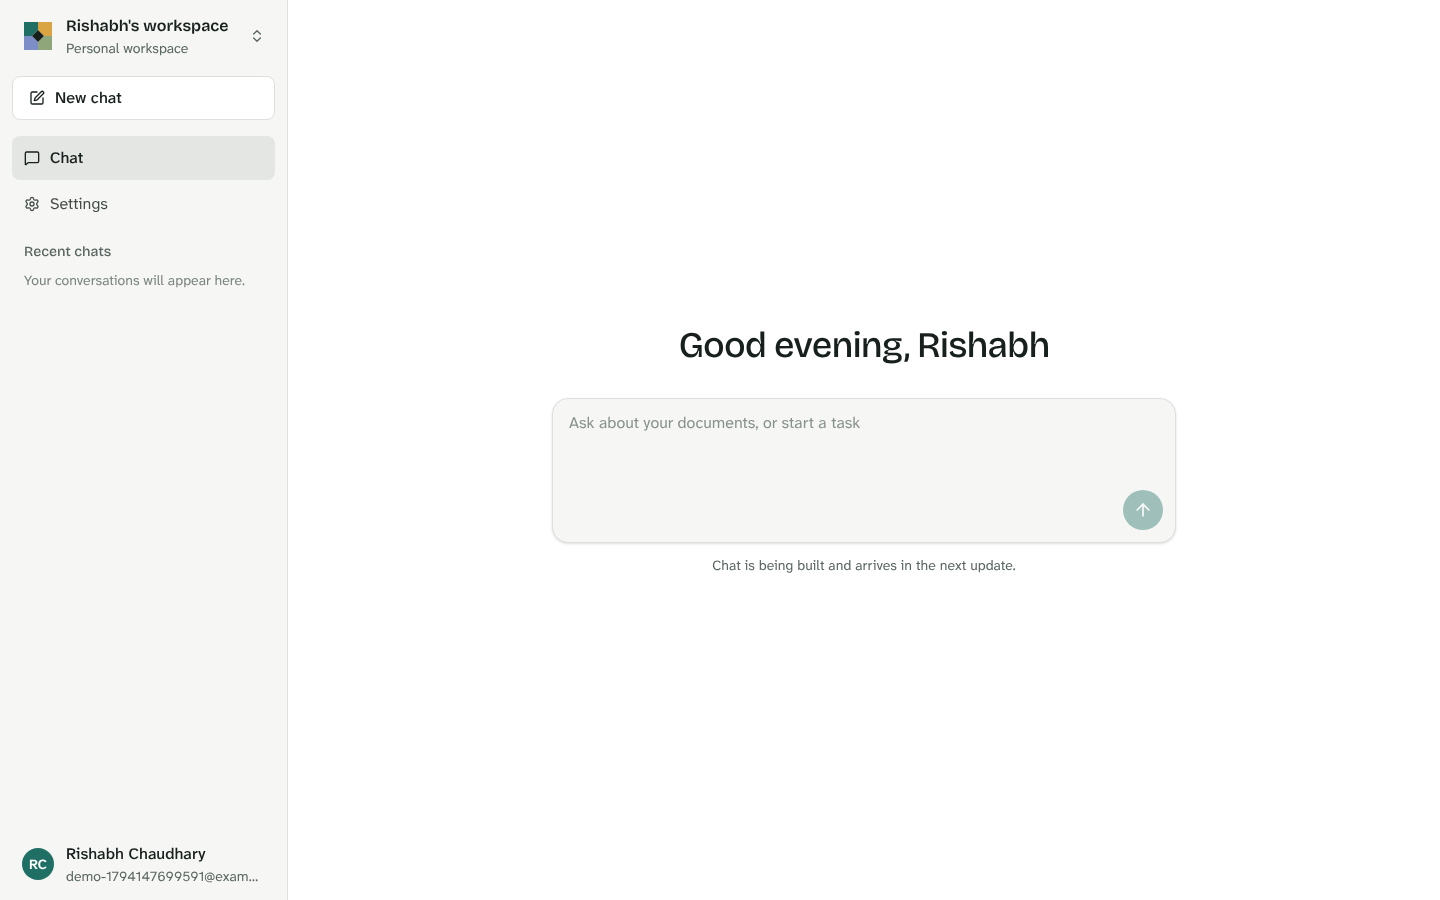
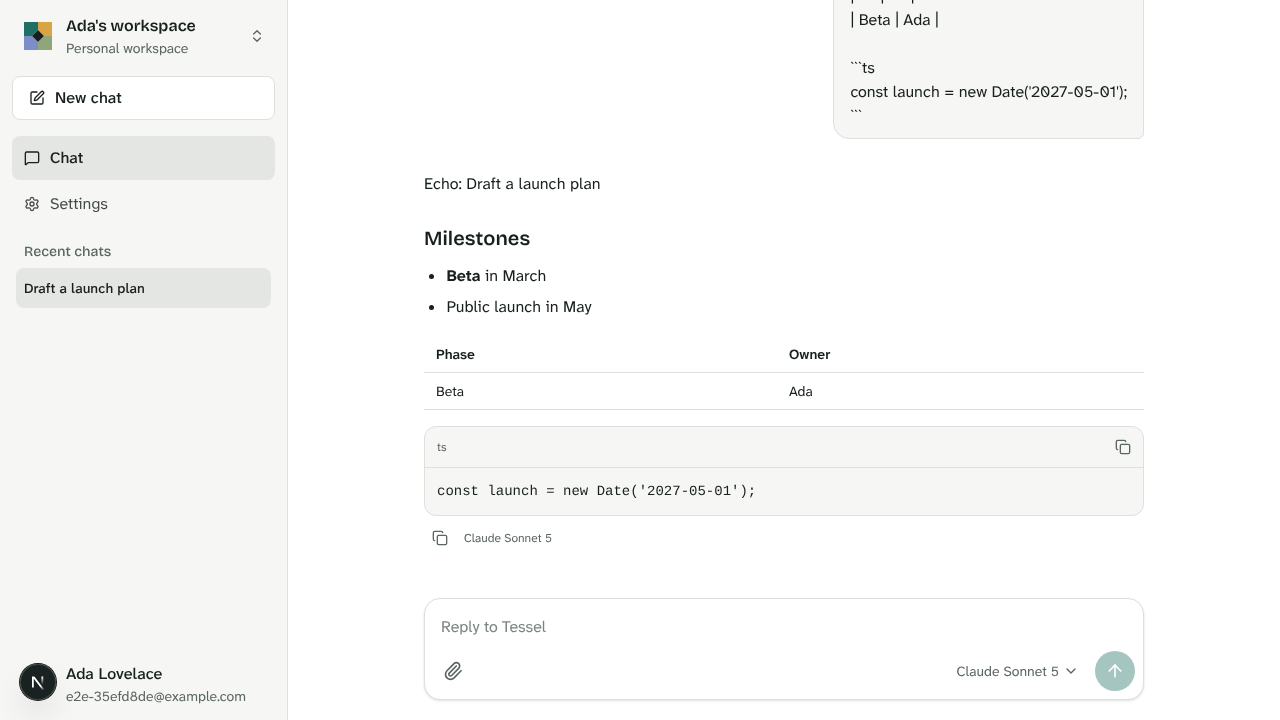
docs: document chat streaming, privacy, and attachments
Adds decisions D-032 to D-034, a chat section in the architecture doc, a new screenshot, and backlog items for S3 attachments, editing, search, and resumable streams.

diff --git a/docs/ARCHITECTURE.md b/docs/ARCHITECTURE.md
@@ -122,7 +122,8 @@ Counters live in the cache Redis, so limits hold across API instances. If Redis 
 | Login                           | 10 per 15 minutes | IP + hashed email |
 | Refresh                         | 30 per minute     | IP                |
 | Password change                 | 5 per 15 minutes  | IP + user         |
-| Completions                     | 20 per minute     | IP + user         |
+| Completions and chat messages   | 20 per minute     | IP + user         |
+| Attachment uploads              | 20 per minute     | IP + user         |
 
 ## AI gateway
 
@@ -151,6 +152,21 @@ flowchart LR
 
 Endpoints: `GET /models` (picker list, no prices); `POST /workspaces/:workspaceId/completions` (one non-streaming reply; streaming chat arrives in step 6); `GET /workspaces/:workspaceId/usage?days=30` (owners and admins see the workspace, members see their own usage).
 
+## Chat
+
+| Piece       | How it works                                                                                                                                                                                                                       |
+| ----------- | ---------------------------------------------------------------------------------------------------------------------------------------------------------------------------------------------------------------------------------- |
+| Data        | `threads`, `messages`, and `attachments`, private to the member who started the thread (row-level security in `0003_chat.sql`).                                                                                                    |
+| Sending     | `POST /workspaces/:workspaceId/chat` with `{ threadId?, model?, content, attachmentIds }`. All checks run first; then the user message and an empty assistant message (status `streaming`) are saved and the stream opens.         |
+| Events      | `start` (thread, saved user message, assistant message ID), `token` (text), `done` (saved reply), `title` (new threads only), or `error` (saved failed reply). A comment every 15 seconds keeps proxies from closing idle streams. |
+| Context     | The system prompt plus the newest messages that fit (up to 40 messages and 400k characters). Failed replies are left out; stopped replies stay.                                                                                    |
+| Stopping    | The client aborts the request. The reply is saved as `stopped` with the text the user saw.                                                                                                                                         |
+| Titles      | After the first reply, the utility model names the thread (recorded as feature `title`), with the first words of the message as a fallback.                                                                                        |
+| Attachments | `POST /workspaces/:workspaceId/attachments` (multipart `file`), then referenced by ID when sending. `GET …/attachments/:id/content` serves the file to its owner.                                                                  |
+| Web         | Live replies sit in a Zustand store outside components, so a new chat keeps streaming while the page moves to its URL. Finished messages land in the TanStack Query cache for the thread.                                          |
+
+Other endpoints: `GET /workspaces/:workspaceId/threads?before=` (newest first, paginated), `GET|PATCH|DELETE /workspaces/:workspaceId/threads/:threadId`.
+
 ## Web app
 
 | Concern          | Approach                                                                                                                                                                                                                                                                                                                                                                        |
@@ -161,7 +177,7 @@ Endpoints: `GET /models` (picker list, no prices); `POST /workspaces/:workspaceI
 | Access token     | Kept in memory only. On page load, the app exchanges the httpOnly refresh cookie for a new token.                                                                                                                                                                                                                                                                               |
 | Route protection | Client-side gates (`RequireSession`, `GuestOnly`). The refresh cookie belongs to the API host, so the web server can't see it; the API is the real gate. `next` redirects only accept paths inside the app.                                                                                                                                                                     |
 | Forms            | react-hook-form with the same Zod schemas the API uses. API field errors land on the matching input; other errors show at the top of the form.                                                                                                                                                                                                                                  |
-| Streaming        | `fetch` with SSE for chat (step 6), since axios can't stream response bodies in the browser.                                                                                                                                                                                                                                                                                    |
+| Streaming        | `fetch` with SSE for chat (`api.chat.send` in `@tessel/api-client`), since axios can't stream response bodies in the browser. It refreshes the token once on a 401, like axios.                                                                                                                                                                                                 |
 | Design           | Tokens in `apps/web/app/globals.css` (Tailwind v4 `@theme`), with a matching dark palette. Fonts are bundled (Bricolage Grotesque for headings, Atkinson Hyperlegible Next for text). Shared components live in `@tessel/ui`.                                                                                                                                                   |
 | Mobile           | The sidebar becomes a drawer below 768 px. Inputs use 16 px text so iOS doesn't zoom, tap targets are at least 44 px, and layouts use `dvh` and safe-area insets.                                                                                                                                                                                                               |
 

diff --git a/docs/BACKLOG.md b/docs/BACKLOG.md
@@ -11,7 +11,7 @@ Things noticed along the way that are not needed yet. Each item names the step w
 - **Member management:** Endpoints to invite, change roles, and remove workspace members (RLS policies already cover these). (Step 18)
 - **Forgot password link:** Add to the login page with the reset flow. (Step 17)
 - **Theme switch:** Let users override the system light or dark setting. (Step 20)
-- **Toasts:** A shared notification pattern for actions that finish away from their form. (Step 6)
+- **Toasts:** A shared notification pattern for actions that finish away from their form. (Step 18)
 - **Visual regression:** Screenshot comparisons in CI for key screens. (Phase 3)
 - **Database backups:** Nightly `pg_dump` of the on-host Postgres to S3, plus a tested restore. Not needed once on RDS. (Step 7, with S3)
 - **Centralised logs:** Ship container logs to CloudWatch (the `awslogs` driver) with retention. (Step 20)
@@ -19,6 +19,10 @@ Things noticed along the way that are not needed yet. Each item names the step w
 - **Gateway cost reconciliation:** Compare ledger costs with the gateway's own usage report nightly, and use the cost the gateway reports for chat calls too (it is already used for embeddings). (Step 18)
 - **Plan tiers for models:** Enforce each model's `tier` against the workspace's plan. (Step 19)
 - **Global cap during a Redis outage:** The ledger fallback covers user and workspace caps; the service-wide cap waits for Redis. A cached daily total would close the gap. (Step 15)
-- **Output moderation:** Check model replies as well as user input, starting with streamed chat. (Step 6)
+- **Output moderation:** Check model replies as well as user input, after the stream finishes. (Step 10)
 - **Anthropic fallback test:** The direct Anthropic route is built but only the OpenAI route is covered by tests. Add a mock of the Messages API. (Step 20)
 - **Prompt caching:** Turn on the gateway's automatic caching for long system prompts and documents. (Step 15)
+- **Attachments to S3:** Move attachment storage from Postgres to S3 with presigned uploads, and remove the bytea column. (Step 7)
+- **Edit and regenerate:** Edit a sent message or regenerate a reply, keeping the earlier version. (Step 20)
+- **Chat search and paging:** Search chat titles and load older chats in the sidebar (the API already pages with `before`). (Step 20)
+- **Resume a stream after reconnecting:** Buffer live tokens in Redis so a dropped connection or a second tab can pick up a reply in progress, and stop it from any API instance. (Step 15)

diff --git a/docs/DECISIONS.md b/docs/DECISIONS.md
@@ -127,3 +127,15 @@ Caps apply per user, per workspace, and for the whole service, and are checked b
 ## D-031 Moderation with a small model, failing open by default
 
 User messages are classified by a cheap model (`defaults.moderation`) through the same gateway, so moderation calls are capped and recorded like any other. Only clear categories block a message (sexual content involving minors, mass-casualty weapons, malware, violent threats, hate); self-harm is detected but never blocked, so a person in distress gets a careful answer. If the check itself fails, the message goes through and the failure is logged; `AI_MODERATION_ON_FAILURE=block` reverses that.
+
+## D-032 Chat streams over server-sent events, and stop means disconnect
+
+`POST /workspaces/:workspaceId/chat` checks and saves the message, then streams the reply as server-sent events (`start`, `token`, `done`, `title`, `error`). Everything that can refuse a message (membership, model, attachments, spend caps, moderation) runs before the stream opens, so refusals are ordinary JSON errors. The browser reads the stream with `fetch`, since axios can't stream in the browser. Pressing stop aborts the request; the API sees the connection close, aborts the model call, saves what was streamed as a stopped reply, and the usage ledger records the call as aborted with estimated tokens. No separate stop endpoint is needed while one API instance serves each stream.
+
+## D-033 Chats are private to the member who started them
+
+Threads, messages, and attachments carry the owner's user ID, and row-level security only lets that user (while still a member) read or change them. Workspace admins see usage totals, not conversations. Shared projects and chats can come later as an explicit sharing feature rather than a default.
+
+## D-034 Attachments in Postgres until S3 arrives
+
+Step 6 accepts images (PNG, JPEG, GIF, WebP up to 5 MB) and UTF-8 text files (up to 1 MB), identified by their contents, not the type the browser claims. They are stored in Postgres so chat works before S3 exists; step 7 moves file storage to S3 and adds PDFs and office documents through ingestion. Text files are sent to the model inside `<attachment>` tags as data; images go to models that can read them, and other models refuse the message up front.

diff --git a/docs/ROADMAP.md b/docs/ROADMAP.md
@@ -9,7 +9,7 @@ Phase 1 is built in 20 steps. Each step ends tested, merged, and (from step 4) d
 | 3    | Foundation               | Web app shell, axios and token refresh, TanStack Query, Zustand, mobile layout | Login works end to end on desktop and mobile         | Done   |
 | 4    | Foundation               | Docker images, CI/CD to ECR and EC2                                            | A push to main deploys automatically                 | Done   |
 | 5    | Chat                     | AI gateway, model registry, moderation, usage ledger, daily cost cap           | Every model call is recorded                         | Done   |
-| 6    | Chat                     | Streaming chat, stop, model picker, attachments                                | A streamed chat works on desktop and mobile          |        |
+| 6    | Chat                     | Streaming chat, stop, model picker, attachments                                | A streamed chat works on desktop and mobile          | Done   |
 | 7    | Knowledge                | Ingestion: S3, SQS, worker, Qdrant hybrid search                               | An uploaded PDF reaches ready                        |        |
 | 8    | Knowledge                | RAG pipeline and router with citations                                         | Answers cite the right chunks                        |        |
 | 9    | Agents                   | Tool registry, ReAct agent, approvals                                          | Approve and reject work, even after a restart        |        |

diff --git a/README.md b/README.md
@@ -8,9 +8,9 @@ An AI workspace for teams. Tessel lets a team chat with AI over its own document
 
 ## Screenshots
 
-| Log in                                                            | Workspace (desktop)                                                | Navigation (phone)                                                 |
-| ----------------------------------------------------------------- | ------------------------------------------------------------------ | ------------------------------------------------------------------ |
-| ![Login page with the Tessel tile pattern](docs/images/login.png) | ![Signed-in workspace with sidebar and chat](docs/images/chat.png) | ![Navigation drawer on a phone](docs/images/mobile-navigation.png) |
+| Log in                                                            | Workspace (desktop)                                                             | Navigation (phone)                                                 |
+| ----------------------------------------------------------------- | ------------------------------------------------------------------------------- | ------------------------------------------------------------------ |
+| ![Login page with the Tessel tile pattern](docs/images/login.png) | ![A streamed chat reply with Markdown, a table, and code](docs/images/chat.png) | ![Navigation drawer on a phone](docs/images/mobile-navigation.png) |
 
 ## What it will do
 
